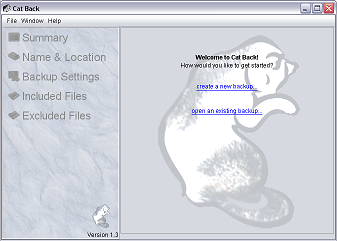
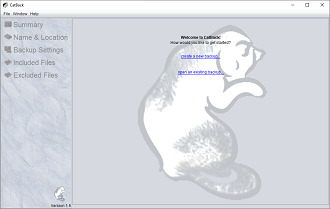
Updated user guide

diff --git a/src/main/resources/userguide/catback-userguide.html b/src/main/resources/userguide/catback-userguide.html
@@ -37,7 +37,7 @@ h3 {
 </ul>
 <h3><a name="s1">Introduction</a></h3>
 <table style="font-size: 14pt" cellpadding="10"><tr><td>
-<a href="catback.png"><img src="catback-thumb.png" border="0" alt="CatBack main window" width="300" height="233"/></a>
+<a href="catback.png"><img src="catback-thumb.png" border="0" alt="CatBack main window" width="330" height="209"/></a>
 </td><td>
 <p>CatBack is a light-weight file backup program.  CatBack attempts to differentiate itself from other available backup software in the following ways:</p>
 <ol>
@@ -48,14 +48,14 @@ h3 {
 <li>It is small in size.</li>
 </ol>
 </td></tr></table>
-<p>CatBack keeps track of what files you want to back up by storing this information in a <i>Backup Profile</i>.  Backup Profiles operate much like documents in a word processor in that you can load them, save them, and create new ones.</p>
+<p>CatBack keeps track of what files you want to back up by storing this information in a <i>Backup Profile</i>.  Backup Profiles operate much like editing documents in that you can load them, save them, and create new ones.</p>
 <p>When you start CatBack for the first time, you will want to create a new Backup Profile by selecting
 <i>New</i> from the <i>File menu</i>.  Once this is done, you will be taken to a series of panels to enter
 your backup information.  Follow through each panel by clicking the navigation buttons at the bottom
 or by selecting the panels from the panel list on the left side of the screen.  The panels you will navigate
 through include:
 <ul>
-	<li>Summary - provides an overview of your backup, and contains the button to begin a new backup.</li>
+	<li>Summary - provides an overview of your backup, and contains a button to execute the backup.</li>
 	<li>Name & Location - allows you to name your backup and select a location to backup to.</li>
 	<li>Backup Settings - includes settings to change the behavior of the backup process and how incremental backups are handled.</li>
 	<li>Included Files - provides a directory tree to select what directories and files will be backed up.</li>
@@ -65,6 +65,9 @@ When selecting your backup location, it is advised that you create and/or select
 <p>As a convenience, CatBack will always reload the last Backup Profile on program startup.</p>
 <h3><a name="s2">Managing a Backup Profile</a></h3>
 <p>With your Backup Profile open, you can include or exclude files or directories to and from your backup set by checking or unchecking the checkboxes next to the files or directories on the included and excluded tabs.  Checkboxes in CatBack have three states to be aware of:</p>
+<table style="font-size: 14pt" cellpadding="10"><tr><td>
+<a href="catback-included-files.png"><img src="catback-included-files-thumb.png" border="0" alt="CatBack main window" width="330" height="209"/></a>
+</td><td>
 <ul>  <!--  list-style-image: url('tick.gif') -->
 	<li style="list-style-image: url('unchecked.png')"> An unchecked checkbox indicates that the file or directory will NOT be backed up (or NOT excluded, if on the Excluded tab).</li>
 	<li style="list-style-image: url('checked.png')"> A checked checkbox indicates that the file or directory WILL be backed up (or WILL be excluded, if on the Excluded tab).</li>
@@ -77,18 +80,21 @@ When selecting your backup location, it is advised that you create and/or select
 	<li>bold black text - for directories where one or more files beneath it are either included or excluded.</li>
 	<li>plain gray text - for all other files and directories.</li>
 </ul>
+</td></tr></table>
 <p>Excluded files and directories take precedence over included files and directories.  The purpose of
 being able to mark files and directories as excluded (and the difference from simply unchecking those
 files and directories from the Included tree), is so that you can exclude those files while keeping
 the parent directories in the checked state on the Included tree (rather than a paritially checked state).</p>
+<p>Note that you do not have to use the checkboxes in the excluded tree window; you can also just exclude files while 
+in the included tree window by using the right-click context menu on files or directories within the tree.</p>
 <p>Pay attention to any selected files or directories that have icons with a warning or missing indicator.</p>
 <ul>
 	<li style="list-style-image: url('Symbols-Warning-16x16.png')"> When you see this warning indicator on top of a directory icon, it indicates that one or more files <b>beneath it</b> are missing.</li>
 	<li style="list-style-image: url('Symbols-Forbidden-16x16.png')"> When you see this missing indicator on top of a file or directory icon, it indicates that the file or directory is missing.</li>
 </ul>
-<p>You need only worry about the warning and missing indicators on files and directories that are part of your backup set.  When this occurs, it means the selected files or directories were previously added to your backup set but are no longer found at their previous locations.  Such files have generally either been deleted, renamed, or moved.  If the files are renamed or moved, you will need to manually uncheck them and then recheck them at their new locations; you may also want to manually update the directory structure at the backup location if you do not want the backup process to recopy such files.</p>
+<p>When you see warning or missing indicators on checked files or directories, it means the selected files or directories were previously added to your backup set but are no longer found at their previous locations.  Such files have generally either been deleted, renamed, or moved.  If the files are renamed or moved, you will need to manually uncheck them and then recheck them at their new locations; you may also want to manually update the directory structure at the backup location if you do not want the backup process to recopy such files.</p>
 <h3><a name="s3">Performing Backup of Files</a></h3>
-<p>Start your backup by clicking on the <i>Begin Backup</i> button on the Summary panel (you can also run a backup by using the "-b" command-line switch described later).  A backup consists of up to 6 steps.  For each step a progress bar may appear if the step will take a significant amount of time.  However, it is not uncommon for a step to be very quick and even skipped completely, in which case you will not see a progress bar for that step.  Once the backup is complete, a prompt will appear with a summary of the backup process.</p>
+<p>Start your backup by clicking on the <i>Begin Backup</i> button on the Summary panel or from the File menu (you can also run a backup by using the "-b" command-line switch described later).  A backup consists of up to 6 steps.  For each step a progress bar may appear if the step will take a significant amount of time.  However, it is not uncommon for a step to be very quick and even skipped completely, in which case you will not see a progress bar for that step.  Once the backup is complete, a prompt will appear with a summary of the backup process.</p>
 <p>The backup steps are as follows:</p>
 <ol class="backupsteps">
 	<li><strong>Inspecting Files</strong>: A list of files you wish to backup is compiled.  This generally takes very little time.</li>
@@ -99,8 +105,11 @@ the parent directories in the checked state on the Included tree (rather than a 
 	<li><strong>Copying New/Changed Files</strong>: New and changed files are copied from your source drive(s) to the backup location.  This step opens an additional window which is initially minimized.  Pay attention if this window still exists after the backup is complete, as this means there was one or more problems copying files during the backup.  Switch to this window to see what the problems were and to decide what to do about those problems.  However, under normal circumstances, there will be no copy problems and this window will automatically close after the copy step is complete.</li>
 </ol>
 <p>When using the "-b" command line backup switch, a backup is immediately performed for the specified Backup Profile; if the backup completes normally, CatBack then exits.  This type of backup execution is intended to allow a user to schedule periodic backups using a task scheduler.  CatBack does not include a built-in scheduler, but most systems have their own task schedulers that can be used.  For example, if you have a Backup Profile with filename <i>c:\myfiles.catback</i>, you could have a task scheduler periodically run CatBack using a command like follows:</p>
-<pre style="margin-left: 25px;">java -jar catback.jar -b myfiles.catback</pre>
+<pre style="margin-left: 25px;">catback.exe -b myfiles.catback</pre>
 <h3><a name="s4">Restoring Files</a></h3>
+<table style="font-size: 14pt" cellpadding="10"><tr><td>
+<a href="catback-name-location.png"><img src="catback-name-location-thumb.png" border="0" alt="CatBack main window" width="330" height="209"/></a>
+</td><td>
 <p>CatBack stores files in a simple directory structure that mimics the structure on the source drive(s)
 you backed up.  The backed up files are not compressed or changed in any way from their original
 versions.  This is done for simplicity.  Restoring files is as simple as navigating to the backup directory
@@ -111,15 +120,24 @@ a backup, all of the latest files go into the <i>latest</i> directory.  Any file
 or deleted since the last backup are moved into the incremental backup directory with the current date
 as a directory name.  The incremental backup directories allow you to view and recover files from older
 backups if necessary.  In addition to the <i>latest</i> and incremental backup directories, there should
-also be a statistics file named ".catback_stats" in the backup directory; this file contains your backup history.</p>
+also be a statistics file named ".catback_stats" in the backup directory; this file contains your backup history.
+There will also be a file named ".catback_filelist" in the backup directory; this file stores information
+about the latest backup and allows CatBack to skip a full scan of the last backup on the next backup; this file
+is not critical but allows the backup speed to be accelerated so long as "Perform full scan of previous backup" 
+is not checked in your Backup Settings.</p>
+</td></tr></table>
 <p>As an example, assume you have a backup directory of <i>D:/backup</i>.  Assume you have performed two backups since the Backup Profile was created, and the second backup was performed on March 3, 2009, where one or more files had been changed or deleted.  In this case, you would have the following directory structure:</p>
 <i>D:/</i><br>
 &nbsp;&nbsp;&nbsp;'-- <i>backup/</i> (your chosen backup directory)<br>
+&nbsp;&nbsp;&nbsp;&nbsp;&nbsp;&nbsp;&nbsp;&nbsp;|-- <i>.catback_filelist</i> (file with metadata on last backup)<br>
 &nbsp;&nbsp;&nbsp;&nbsp;&nbsp;&nbsp;&nbsp;&nbsp;|-- <i>.catback_stats</i> (backup history file)<br>
 &nbsp;&nbsp;&nbsp;&nbsp;&nbsp;&nbsp;&nbsp;&nbsp;|-- <i>latest/</i> (directory where latest backup is stored)<br>
-&nbsp;&nbsp;&nbsp;&nbsp;&nbsp;&nbsp;&nbsp;&nbsp;'-- <i>20090303/</i> (directory where old and/or deleted files were moved to)<br>
+&nbsp;&nbsp;&nbsp;&nbsp;&nbsp;&nbsp;&nbsp;&nbsp;'-- <i>20090303/</i> (incrememtal directory where old and/or deleted files were moved to)<br>
+<table style="font-size: 14pt" cellpadding="10"><tr><td>
+<a href="catback-backup-settings.png"><img src="catback-backup-settings-thumb.png" border="0" alt="CatBack main window" width="330" height="209"/></a>
+</td><td>
 <p>You can configure how long to keep incremental backup directories for in your backup settings.  Or you can manage them yourself, simply by deleting incremental backup directories you no longer wish to keep.  If more than one backup is performed on the same day, subsequent incremental backup directories on that day will have an additional number appended to the directory name (i.e., if a second backup was performed on March 3, 2009, it might create the directory <i>20090303-1</i>).</p>
-
+</td></tr></table>
 <h3><a name="s5">Dry Runs</a></h3>
 <p>CatBack can be put into a "Dry Run" mode with the following command-line switch:</p>
 <p style="padding-left: 25px;">"-dryrun"</p>
@@ -133,9 +151,7 @@ However, there is also a set maximum simulated copy time of 6 seconds for each f
 
 <h3><a name="s6">Logging</a></h3>
 
-<p>Logging is configured via a log4j2.xml logging configuration file.  Normally, this file would reside in the application startup directory.
-This logging configuration file must be specified with a VM argument as in the following example:</p>
-<pre style="margin-left: 25px;">javaw -Dlog4j.configurationFile=file:\\\C:\CatBack\log4j2.xml -jar catback.jar</pre>
+<p>Logging is configured via a log4j2.xml logging configuration file.  Normally, this file would reside in the application startup directory.</p>
 <p>The default log4j2.xml configuration file will send log messages to the file "catback.log" located in the application startup directory.
 You can reroute logging in CatBack by adding one of the following command-line switches when starting the program:</p>
 <p style="padding-left: 25px;">"-l off" - turns off logging</p>
@@ -143,7 +159,8 @@ You can reroute logging in CatBack by adding one of the following command-line s
 <p style="padding-left: 25px;">"-l window" - sends logging messages to a dialog window within the application. When this is active, the dialog is launched from
 the Application Log menu item in the Window menu.</p>
 <p style="padding-left: 25px;">"-l file:<i>&lt;config-file-path&gt;</i>", where <i>config-file-path</i> is the file path of a standard log4j2.xml file.  Leave off the colon and <i>config-file-path</i> to reset to the default log4j2.xml confguration file.</p>
-<p>When using the -l flag, the log4j2.xml file is re-written to provide the desired logging configuration. To pick up the changes, the application must be restarted.</p>
+<p>When using the -l flag, the log4j2.xml file is re-written to provide the desired logging configuration. To pick up the changes, the application must be restarted.
+If you are familiar with log4j2 configuration files, you can also manually modify the configuration to your own liking.</p>
 <h3><a name="s7">Version History</a></h3>
 <p>Detailed version history information is available through the Cat Back main menu (Help->About).</p>
 <h3><a name="s8">Requirements/Credits</a></h3>
